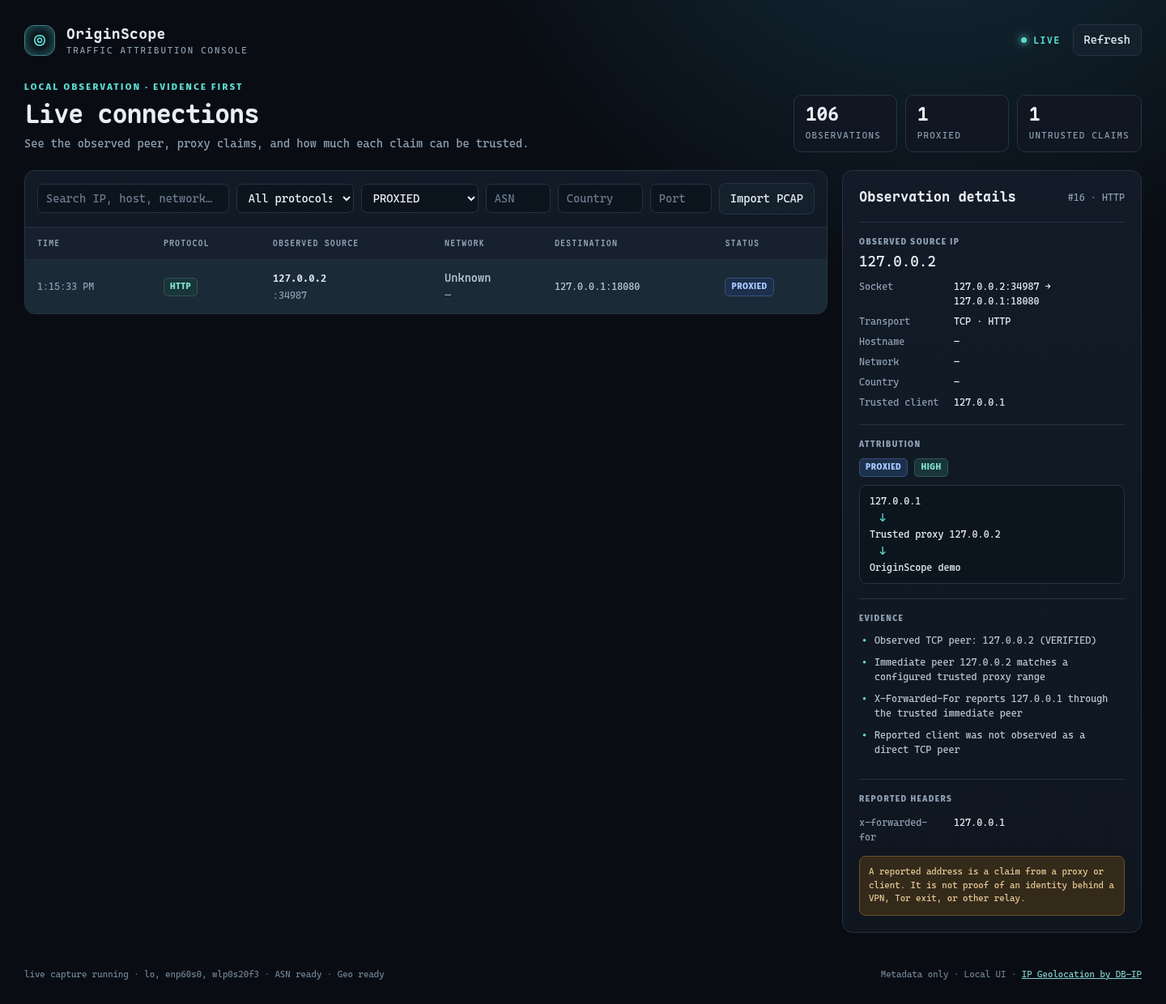
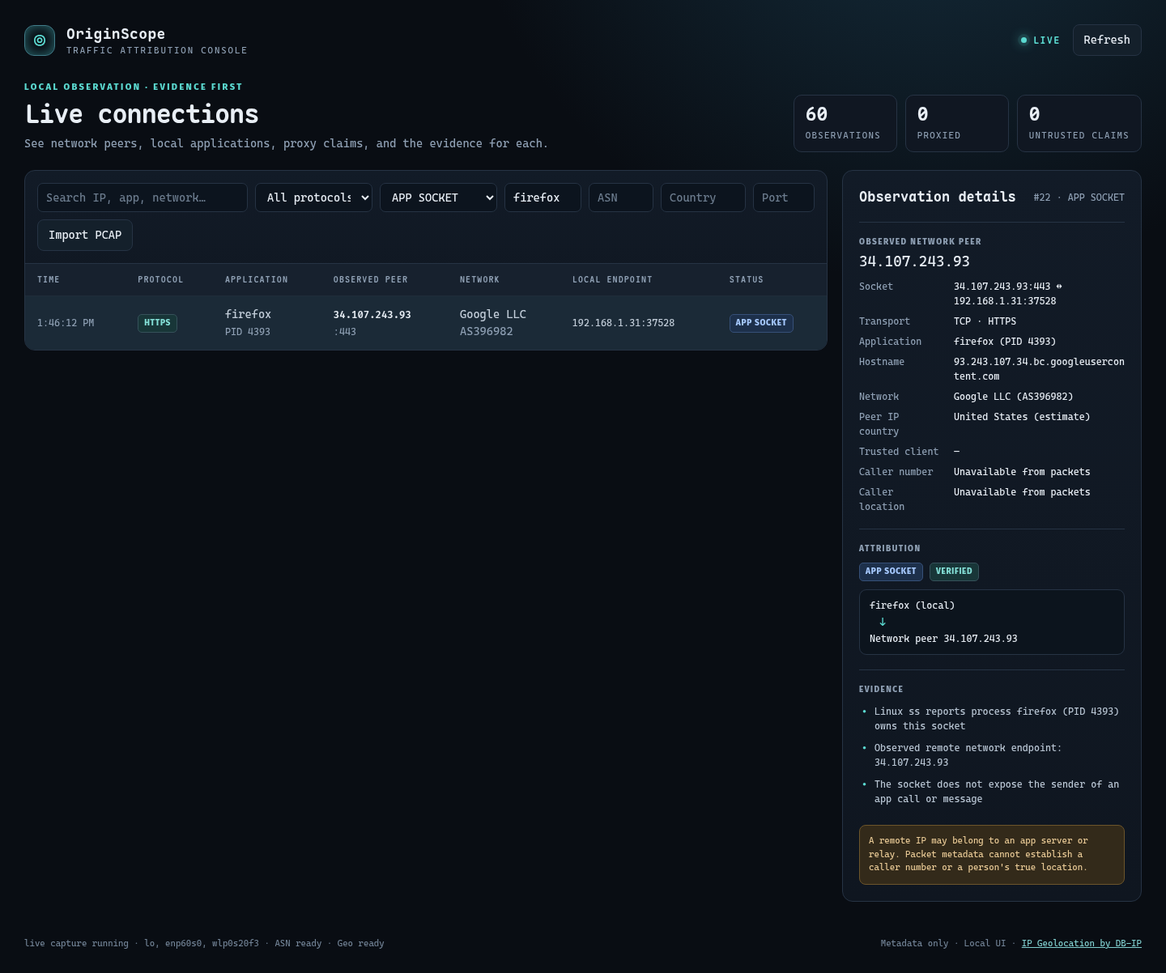
Show local application socket attribution

diff --git a/static/index.html b/static/index.html
@@ -11,19 +11,19 @@
 <body>
 <div class="shell">
   <header class="top"><div class="brand"><div class="mark">◎</div><div><strong>OriginScope</strong><small>Traffic attribution console</small></div></div><div class="topright"><div id="live" class="live"><span class="dot"></span><span>CONNECTING</span></div><button class="ghost" id="refresh">Refresh</button></div></header>
-  <section class="hero"><div><div class="eyebrow">Local observation · evidence first</div><h1>Live connections</h1><p>See the observed peer, proxy claims, and how much each claim can be trusted.</p></div><div class="stats"><div class="stat"><b id="count">0</b><span>Observations</span></div><div class="stat"><b id="proxied">0</b><span>Proxied</span></div><div class="stat"><b id="untrusted">0</b><span>Untrusted claims</span></div></div></section>
-  <div class="main"><section class="card"><div class="toolbar"><input id="search" class="search" placeholder="Search IP, host, network…" aria-label="Search observations"><select id="protocol" aria-label="Protocol"><option value="">All protocols</option><option>TCP</option><option>UDP</option><option>HTTP</option><option>HTTPS</option><option>DNS</option></select><select id="class" aria-label="Classification"><option value="">All sources</option><option>DIRECT</option><option>PROXIED</option><option>PROXY</option><option>UNTRUSTED HEADER</option><option>CDN / PROXY</option><option>TOR EXIT</option><option>UNKNOWN</option></select><input id="asn" style="width:80px" placeholder="ASN" aria-label="ASN"><input id="country" style="width:105px" placeholder="Country" aria-label="Country"><input id="port" style="width:76px" placeholder="Port" aria-label="Destination port"><button class="ghost import">Import PCAP<input id="pcap" type="file" accept=".pcap,.pcapng" aria-label="Import PCAP"></button></div><div class="tablewrap"><table><thead><tr><th>Time</th><th>Protocol</th><th>Observed source</th><th>Network</th><th>Destination</th><th>Status</th></tr></thead><tbody id="rows"></tbody></table><div id="empty" class="empty"><div style="font-size:29px;color:var(--cyan)">◎</div><strong>Waiting for traffic</strong>Try a request to the local demo server.</div></div></section><aside class="card detail" id="detail"><div class="detailhead"><h2>Observation details</h2><span class="id">SELECT A ROW</span></div><div class="empty">Choose a connection to inspect its evidence and topology.</div></aside></div>
+  <section class="hero"><div><div class="eyebrow">Local observation · evidence first</div><h1>Live connections</h1><p>See network peers, local applications, proxy claims, and the evidence for each.</p></div><div class="stats"><div class="stat"><b id="count">0</b><span>Observations</span></div><div class="stat"><b id="proxied">0</b><span>Proxied</span></div><div class="stat"><b id="untrusted">0</b><span>Untrusted claims</span></div></div></section>
+  <div class="main"><section class="card"><div class="toolbar"><input id="search" class="search" placeholder="Search IP, app, network…" aria-label="Search observations"><select id="protocol" aria-label="Protocol"><option value="">All protocols</option><option>TCP</option><option>UDP</option><option>HTTP</option><option>HTTPS</option><option>DNS</option></select><select id="class" aria-label="Classification"><option value="">All sources</option><option>APP SOCKET</option><option>DIRECT</option><option>PROXIED</option><option>PROXY</option><option>UNTRUSTED HEADER</option><option>CDN / PROXY</option><option>TOR EXIT</option><option>UNKNOWN</option></select><input id="application" style="width:95px" placeholder="App" aria-label="Application"><input id="asn" style="width:80px" placeholder="ASN" aria-label="ASN"><input id="country" style="width:105px" placeholder="Country" aria-label="Country"><input id="port" style="width:76px" placeholder="Port" aria-label="Destination port"><button class="ghost import">Import PCAP<input id="pcap" type="file" accept=".pcap,.pcapng" aria-label="Import PCAP"></button></div><div class="tablewrap"><table><thead><tr><th>Time</th><th>Protocol</th><th>Application</th><th>Observed peer</th><th>Network</th><th>Local endpoint</th><th>Status</th></tr></thead><tbody id="rows"></tbody></table><div id="empty" class="empty"><div style="font-size:29px;color:var(--cyan)">◎</div><strong>Waiting for traffic</strong>Try a request to the local demo server.</div></div></section><aside class="card detail" id="detail"><div class="detailhead"><h2>Observation details</h2><span class="id">SELECT A ROW</span></div><div class="empty">Choose a connection to inspect its evidence and topology.</div></aside></div>
   <div id="message"></div><footer class="footer"><span id="capture">Checking capture status…</span><span>Metadata only · Local UI · <a href="https://db-ip.com" target="_blank" rel="noopener">IP Geolocation by DB-IP</a></span></footer>
 </div>
 <script>
 const $=id=>document.getElementById(id), state={events:new Map(),selected:null};
 const escape=s=>String(s??'—').replace(/[&<>"']/g,c=>({'&':'&amp;','<':'&lt;','>':'&gt;','"':'&quot;',"'":'&#39;'}[c]));
-const badge=s=>`<span class="pill ${/UNTRUSTED|TOR/.test(s)?'red':/PROXIED|PROXY|CDN/.test(s)?'blue':s==='UNKNOWN'?'warn':''}">${escape(s)}</span>`;
-function filtered(){let q=$('search').value.trim().toLowerCase(), p=$('protocol').value, c=$('class').value, a=$('asn').value.trim(), co=$('country').value.trim().toLowerCase(), port=$('port').value.trim();return [...state.events.values()].filter(e=>(!p||e.transport===p||e.protocol===p)&&(!c||e.classification===c)&&(!a||String(e.asn??'').includes(a.replace(/^AS/i,'')))&&(!co||String(e.country??'').toLowerCase().includes(co))&&(!port||String(e.destination_port)===port)&&(!q||[e.source_ip,e.destination_ip,e.hostname,e.network,e.trusted_client,e.country,e.protocol].some(v=>String(v??'').toLowerCase().includes(q)))).sort((a,b)=>b.id-a.id)}
-function render(){let all=[...state.events.values()],events=filtered().slice(0,500);$('count').textContent=all.length;$('proxied').textContent=all.filter(e=>e.classification==='PROXIED').length;$('untrusted').textContent=all.filter(e=>e.classification==='UNTRUSTED HEADER').length;$('empty').style.display=events.length?'none':'block';$('rows').innerHTML=events.map(e=>`<tr data-id="${e.id}" class="${e.id===state.selected?'selected':''}"><td class="mono muted">${escape(new Date(e.timestamp).toLocaleTimeString())}</td><td>${badge(e.protocol||e.transport)}</td><td><span class="source mono">${escape(e.source_ip)}</span><br><span class="muted mono">:${escape(e.source_port)}</span></td><td>${escape(e.network||'Unknown')}<br><span class="muted">${e.asn?'AS'+escape(e.asn):escape(e.country||'—')}</span></td><td class="mono">${escape(e.destination_ip)}:${escape(e.destination_port)}</td><td>${badge(e.classification)}</td></tr>`).join('');document.querySelectorAll('#rows tr').forEach(tr=>tr.onclick=()=>{state.selected=Number(tr.dataset.id);render()});detail()}
-function detail(){let e=state.events.get(state.selected);if(!e)return;$('detail').innerHTML=`<div class="detailhead"><h2>Observation details</h2><span class="id">#${e.id} · ${escape(e.kind)}</span></div><div class="section"><div class="label">Observed source IP</div><div class="bigip">${escape(e.source_ip)}</div><div class="kv"><span>Socket</span><span class="mono">${escape(e.source_ip)}:${escape(e.source_port)} → ${escape(e.destination_ip)}:${escape(e.destination_port)}</span><span>Transport</span><span>${escape(e.transport)} · ${escape(e.protocol)}</span><span>Hostname</span><span>${escape(e.hostname)}</span><span>Network</span><span>${escape(e.network)} ${e.asn?'(AS'+escape(e.asn)+')':''}</span><span>Country</span><span>${escape(e.country)}</span><span>Trusted client</span><span>${escape(e.trusted_client)}</span></div></div><div class="section"><div class="label">Attribution</div><div style="display:flex;gap:8px;margin-top:9px">${badge(e.classification)} ${badge(e.confidence)}</div><div class="topology">${(e.topology||[]).map((hop,i)=>`<div class="hop">${escape(hop)}</div>${i<(e.topology.length-1)?'<div class="arrow">↓</div>':''}`).join('')}</div></div><div class="section"><div class="label">Evidence</div><ul class="evidence">${(e.evidence||[]).map(x=>`<li>${escape(x)}</li>`).join('')}</ul></div>${e.reported?.length?`<div class="section"><div class="label">Reported headers</div><div class="kv">${e.reported.map(x=>`<span>${escape(x.header)}</span><span class="mono">${escape(x.value)}</span>`).join('')}</div></div>`:''}<div class="note">A reported address is a claim from a proxy or client. It is not proof of an identity behind a VPN, Tor exit, or other relay.</div>`}
+const badge=s=>`<span class="pill ${/UNTRUSTED|TOR/.test(s)?'red':/PROXIED|PROXY|CDN|APP SOCKET/.test(s)?'blue':s==='UNKNOWN'?'warn':''}">${escape(s)}</span>`;
+function filtered(){let q=$('search').value.trim().toLowerCase(), p=$('protocol').value, c=$('class').value, app=$('application').value.trim().toLowerCase(), a=$('asn').value.trim(), co=$('country').value.trim().toLowerCase(), port=$('port').value.trim();return [...state.events.values()].filter(e=>(!p||e.transport===p||e.protocol===p)&&(!c||e.classification===c)&&(!app||String(e.application??'').toLowerCase().includes(app))&&(!a||String(e.asn??'').includes(a.replace(/^AS/i,'')))&&(!co||String(e.country??'').toLowerCase().includes(co))&&(!port||String(e.destination_port)===port)&&(!q||[e.application,e.source_ip,e.destination_ip,e.hostname,e.network,e.trusted_client,e.country,e.protocol].some(v=>String(v??'').toLowerCase().includes(q)))).sort((a,b)=>b.id-a.id)}
+function render(){let all=[...state.events.values()],events=filtered().slice(0,500);$('count').textContent=all.length;$('proxied').textContent=all.filter(e=>e.classification==='PROXIED').length;$('untrusted').textContent=all.filter(e=>e.classification==='UNTRUSTED HEADER').length;$('empty').style.display=events.length?'none':'block';$('rows').innerHTML=events.map(e=>`<tr data-id="${e.id}" class="${e.id===state.selected?'selected':''}"><td class="mono muted">${escape(new Date(e.timestamp).toLocaleTimeString())}</td><td>${badge(e.protocol||e.transport)}</td><td>${escape(e.application||'—')}${e.process_id?`<br><span class="muted mono">PID ${escape(e.process_id)}</span>`:''}</td><td><span class="source mono">${escape(e.source_ip)}</span><br><span class="muted mono">:${escape(e.source_port)}</span></td><td>${escape(e.network||'Unknown')}<br><span class="muted">${e.asn?'AS'+escape(e.asn):escape(e.country||'—')}</span></td><td class="mono">${escape(e.destination_ip)}:${escape(e.destination_port)}</td><td>${badge(e.classification)}</td></tr>`).join('');document.querySelectorAll('#rows tr').forEach(tr=>tr.onclick=()=>{state.selected=Number(tr.dataset.id);render()});detail()}
+function detail(){let e=state.events.get(state.selected);if(!e)return;$('detail').innerHTML=`<div class="detailhead"><h2>Observation details</h2><span class="id">#${e.id} · ${escape(e.kind)}</span></div><div class="section"><div class="label">Observed network peer</div><div class="bigip">${escape(e.source_ip)}</div><div class="kv"><span>Socket</span><span class="mono">${escape(e.source_ip)}:${escape(e.source_port)} ↔ ${escape(e.destination_ip)}:${escape(e.destination_port)}</span><span>Transport</span><span>${escape(e.transport)} · ${escape(e.protocol)}</span><span>Application</span><span>${escape(e.application)}${e.process_id?' (PID '+escape(e.process_id)+')':''}</span><span>Hostname</span><span>${escape(e.hostname)}</span><span>Network</span><span>${escape(e.network)} ${e.asn?'(AS'+escape(e.asn)+')':''}</span><span>Peer IP country</span><span>${escape(e.country)} (estimate)</span><span>Trusted client</span><span>${escape(e.trusted_client)}</span>${e.kind==='APP SOCKET'?'<span>Caller number</span><span>Unavailable from packets</span><span>Caller location</span><span>Unavailable from packets</span>':''}</div></div><div class="section"><div class="label">Attribution</div><div style="display:flex;gap:8px;margin-top:9px">${badge(e.classification)} ${badge(e.confidence)}</div><div class="topology">${(e.topology||[]).map((hop,i)=>`<div class="hop">${escape(hop)}</div>${i<(e.topology.length-1)?'<div class="arrow">↓</div>':''}`).join('')}</div></div><div class="section"><div class="label">Evidence</div><ul class="evidence">${(e.evidence||[]).map(x=>`<li>${escape(x)}</li>`).join('')}</ul></div>${e.reported?.length?`<div class="section"><div class="label">Reported headers</div><div class="kv">${e.reported.map(x=>`<span>${escape(x.header)}</span><span class="mono">${escape(x.value)}</span>`).join('')}</div></div>`:''}<div class="note">A remote IP may belong to an app server or relay. Packet metadata cannot establish a caller number or a person's true location.</div>`}
 async function load(){try{let [ev,st]=await Promise.all([fetch('/api/events').then(r=>r.json()),fetch('/api/status').then(r=>r.json())]);ev.forEach(e=>state.events.set(e.id,e));$('capture').textContent=`${st.capture} · ${st.interfaces.join(', ')} · ASN ${st.asn_db?'ready':'unavailable'} · Geo ${st.country_db?'ready':'unavailable'}`;render()}catch(err){$('message').textContent='Cannot reach OriginScope backend: '+err.message}}
 function stream(){let es=new EventSource('/api/stream');es.onopen=()=>{$('live').classList.remove('off');$('live').lastElementChild.textContent='LIVE'};es.onerror=()=>{$('live').classList.add('off');$('live').lastElementChild.textContent='RECONNECTING'};es.onmessage=m=>{try{let e=JSON.parse(m.data);state.events.set(e.id,e);render()}catch{}}}
-['search','protocol','class','asn','country','port'].forEach(id=>$(id).addEventListener('input',render));$('refresh').onclick=load;$('pcap').onchange=async e=>{let file=e.target.files[0];if(!file)return;$('message').textContent='Importing '+file.name+'…';try{let res=await fetch('/api/import',{method:'POST',headers:{'Content-Type':'application/octet-stream'},body:file}),data=await res.json();$('message').textContent=res.ok?`Imported ${data.imported} connection starts from ${file.name}`:data.error;await load()}catch(err){$('message').textContent=err.message}e.target.value=''};load();stream();setInterval(load,15000);
+['search','protocol','class','application','asn','country','port'].forEach(id=>$(id).addEventListener('input',render));$('refresh').onclick=load;$('pcap').onchange=async e=>{let file=e.target.files[0];if(!file)return;$('message').textContent='Importing '+file.name+'…';try{let res=await fetch('/api/import',{method:'POST',headers:{'Content-Type':'application/octet-stream'},body:file}),data=await res.json();$('message').textContent=res.ok?`Imported ${data.imported} connection starts from ${file.name}`:data.error;await load()}catch(err){$('message').textContent=err.message}e.target.value=''};load();stream();setInterval(load,15000);
 </script>
 </body></html>

diff --git a/app.py b/app.py
@@ -3,6 +3,7 @@
 
 import argparse
 import datetime as dt
+import grp
 import http.client
 import ipaddress
 import json
@@ -10,6 +11,8 @@ import os
 from pathlib import Path
 import queue
 import re
+import pwd
+import shlex
 import shutil
 import socket
 import subprocess
@@ -274,6 +277,18 @@ def tshark_command(interface=None, pcap=None):
     return cmd
 
 
+def capture_launch_command(cmd):
+    """Activate only dumpcap's group, preserving process visibility for ss."""
+    try:
+        group = grp.getgrnam("wireshark")
+        user = pwd.getpwuid(os.getuid()).pw_name
+        if group.gr_gid not in os.getgroups() and user in group.gr_mem and shutil.which("sg"):
+            return ["sg", "wireshark", "-c", shlex.join(cmd)]
+    except (KeyError, OSError):
+        pass
+    return cmd
+
+
 def capture_loop(app):
     if not app.config["capture"]["enabled"]:
         app.status["capture"] = "disabled by config"
@@ -284,7 +299,7 @@ def capture_loop(app):
         return
     cmd = tshark_command(app.config["interface"])
     try:
-        proc = subprocess.Popen(cmd, stdout=subprocess.PIPE, stderr=subprocess.PIPE, text=True, bufsize=1)
+        proc = subprocess.Popen(capture_launch_command(cmd), stdout=subprocess.PIPE, stderr=subprocess.PIPE, text=True, bufsize=1)
         app.capture_proc = proc
         app.status["capture"] = "starting tshark"
         for line in proc.stdout:
@@ -302,7 +317,56 @@ def capture_loop(app):
 
 def split_endpoint(value):
     host, _, port = value.rpartition(":")
-    return ip_value(host.strip("[]")), int(port) if port.isdigit() else None
+    return ip_value(host.strip("[]").split("%", 1)[0]), int(port) if port.isdigit() else None
+
+
+def parse_app_socket(row):
+    """Read one Linux ss -H -tunp row; missing process ownership stays unknown."""
+    cells = row.split()
+    if len(cells) < 7 or cells[0] not in ("tcp", "udp"):
+        return None
+    match = re.search(r'users:\(\("([^"]+)",pid=(\d+),fd=\d+\)', row)
+    if not match:
+        return None
+    local_ip, local_port = split_endpoint(cells[4])
+    remote_ip, remote_port = split_endpoint(cells[5])
+    if not all((local_ip, local_port, remote_ip, remote_port)):
+        return None
+    return {"transport": cells[0].upper(), "source_ip": remote_ip, "source_port": remote_port,
+            "destination_ip": local_ip, "destination_port": local_port,
+            "application": match.group(1), "process_id": int(match.group(2))}
+
+
+def app_socket_loop(app):
+    """Observe sockets owned by local processes; no message or caller inference."""
+    seen = set()
+    while True:
+        try:
+            output = subprocess.run(["ss", "-H", "-tunp"], capture_output=True, text=True, timeout=3, check=True).stdout
+            current = set()
+            for row in output.splitlines():
+                socket_info = parse_app_socket(row)
+                if not socket_info or socket_info["process_id"] == os.getpid():
+                    continue
+                key = (socket_info["transport"], socket_info["source_ip"], socket_info["source_port"],
+                       socket_info["destination_ip"], socket_info["destination_port"], socket_info["process_id"])
+                current.add(key)
+                if key in seen:
+                    continue
+                peer = socket_info["source_ip"]
+                process = socket_info["application"]
+                app.observe({"timestamp": dt.datetime.now(dt.timezone.utc).isoformat(), **socket_info,
+                             "protocol": PORT_NAMES.get(socket_info["source_port"], socket_info["transport"])},
+                            "APP SOCKET", {"classification": "APP SOCKET", "direction": "LOCAL PROCESS SOCKET",
+                                           "caller_number": None, "caller_location": None,
+                                           "topology": [f"{process} (local)", f"Network peer {peer}"],
+                                           "evidence": [f"Linux ss reports process {process} (PID {socket_info['process_id']}) owns this socket",
+                                                        f"Observed remote network endpoint: {peer}",
+                                                        "The socket does not expose the sender of an app call or message"]})
+            seen = current
+        except (OSError, subprocess.SubprocessError):
+            pass
+        time.sleep(1)
 
 
 def ss_loop(app):
@@ -502,6 +566,7 @@ def main():
                serve(DemoHandler, config["demo"]["host"], config["demo"]["port"]),
                serve(ProxyHandler, config["demo"]["host"], config["demo"]["proxy_port"])]
     threading.Thread(target=capture_loop, args=(app,), daemon=True).start()
+    threading.Thread(target=app_socket_loop, args=(app,), daemon=True).start()
     print(f"OriginScope UI: http://{config['ui']['host']}:{config['ui']['port']}", flush=True)
     print(f"Demo direct: http://{config['demo']['host']}:{config['demo']['port']}", flush=True)
     print(f"Demo proxy:  http://{config['demo']['host']}:{config['demo']['proxy_port']}", flush=True)

diff --git a/test_app.py b/test_app.py
@@ -1,7 +1,7 @@
 import ipaddress
 import unittest
 
-from app import parse_tshark, trust_analysis
+from app import parse_app_socket, parse_tshark, trust_analysis
 
 
 class AttributionTest(unittest.TestCase):
@@ -29,6 +29,13 @@ class AttributionTest(unittest.TestCase):
         values[-1] = "True"
         self.assertIsNone(parse_tshark("\t".join(values)))
         self.assertIsNone(parse_tshark("garbage"))
+
+    def test_app_socket_requires_local_process_evidence(self):
+        row = 'tcp ESTAB 0 0 192.168.1.31:43058 34.54.185.247:443 users:(("firefox",pid=4393,fd=151))'
+        parsed = parse_app_socket(row)
+        self.assertEqual((parsed["application"], parsed["source_ip"], parsed["process_id"]),
+                         ("firefox", "34.54.185.247", 4393))
+        self.assertIsNone(parse_app_socket(row.split(" users:")[0]))
 
 
 if __name__ == "__main__":

diff --git a/README.md b/README.md
@@ -11,12 +11,11 @@ Linux with Python 3.11+, `tshark`, and capture permission is recommended. Fedora
 ```sh
 sudo dnf install wireshark-cli python3
 sudo usermod -aG wireshark "$USER"
-# Log out and back in once, or use sg as shown below.
 ./scripts/setup.sh
 ./originscope
 ```
 
-On the first run after joining the group, use `sg wireshark -c './originscope'` if you have not logged out yet. The app itself runs as your user. Fedora's Wireshark package grants the narrow network capabilities to `dumpcap`, which is accessible only to the `wireshark` group. See [Wireshark's capture permission guide](https://wiki.wireshark.org/capturesetup/captureprivileges).
+The app itself runs in your normal user session. If new `wireshark` group membership has not reached that session yet, OriginScope activates the group only for its TShark capture child. Fedora's Wireshark package grants the narrow network capabilities to `dumpcap`, which is accessible only to the `wireshark` group. See [Wireshark's capture permission guide](https://wiki.wireshark.org/capturesetup/captureprivileges).
 
 Open **http://127.0.0.1:18765**. Run from the project directory. `./originscope` is the single startup command after installation. Stop it with Ctrl+C.
 
@@ -36,14 +35,21 @@ curl -H 'X-Forwarded-For: 203.0.113.9' http://127.0.0.1:18081/via-proxy
 
 The first is **DIRECT** with observed TCP peer `127.0.0.1`. The second is **UNTRUSTED HEADER**: `203.0.113.9` is displayed as a claim and never accepted as the client. The third is **PROXIED**: the built-in proxy removes supplied attribution headers, forwards the request from `127.0.0.2`, and reports its observed client as `127.0.0.1`. Only `127.0.0.2/32` is trusted by default. This separate loopback address keeps a direct `127.0.0.1` request from accidentally becoming trusted.
 
-The test server returns a JSON explanation and adds the event to the live UI. Click a row to see the observed source, reported headers, accepted client if any, topology, confidence, and evidence. Use the search, protocol, source classification, ASN, country, and destination port filters. Use **Import PCAP** to load a `.pcap` or `.pcapng` up to 50 MiB; imported connection starts use the same parser and enrichment pipeline.
+The test server returns a JSON explanation and adds the event to the live UI. Click a row to see the observed source, reported headers, accepted client if any, topology, confidence, and evidence. Use the search, protocol, application, source classification, ASN, country, and destination port filters. Use **Import PCAP** to load a `.pcap` or `.pcapng` up to 50 MiB; imported connection starts use the same parser and enrichment pipeline.
+
+## Application sockets and calls
+
+OriginScope also polls Linux `ss -tunp` to show **which local process owns an active TCP or connected UDP socket** when the OS exposes that owner. Filter by app name or select **APP SOCKET**. The detail panel shows the process name/PID, local socket, remote network endpoint, and an estimated country for that endpoint when the local database has a match. A web app usually appears as `firefox` or another browser process, not as its own tab. A phone's app identity is not available from packets observed on this PC; sockets owned by other users or hidden by OS permissions may also lack a process name.
+
+For WhatsApp or another messaging app, the remote address may be an app server, CDN, or call relay. Packet metadata does not contain a reliable caller phone number or true physical location. OriginScope explicitly shows those as **Unavailable from packets**. A number visible in an app's own UI would require that app to provide an authorized event or export; it cannot be inferred universally from network traffic. [WhatsApp documents end-to-end encryption](https://faq.whatsapp.com/820124435853543/) and [call relaying](https://faq.whatsapp.com/2635108359972899/), which are concrete reasons for this limit. The country shown is about the network endpoint's IP allocation, not the person who contacted you.
 
 ## Architecture and reused components
 
 ```text
 Network interface ── TShark / dumpcap ── field output ──┐
 PCAP / PCAPNG ──────── TShark ─────────── field output ──┼─ normalize + deduplicate
-HTTP demo ─────────── Python HTTP server ────────────────┘          │
+HTTP demo ─────────── Python HTTP server ────────────────┤          │
+Local app sockets ─── Linux ss -tunp ────────────────────┘          │
                                                                   ├─ trust rules + evidence
                                                                   ├─ local DNS / MMDB / lists
                                                                   └─ bounded memory → SSE → browser
@@ -72,7 +78,7 @@ The observed source is the peer visible at this host; it is always shown separat
 - Cloudflare publishes its [IPv4](https://www.cloudflare.com/ips-v4) and [IPv6](https://www.cloudflare.com/ips-v6) ranges. The [Tor Project bulk exit list](https://check.torproject.org/torbulkexitlist) is a snapshot and does not include every possible relay or destination-specific exit policy. Refresh these files regularly.
 - No packet bodies, cookies, credentials, TLS plaintext, or HTTP message bodies are stored by OriginScope. TShark inspects traffic transiently to report metadata. Imported PCAP files can contain sensitive payloads supplied by the operator; OriginScope holds the uploaded bytes in a temporary file only while TShark reads them, then deletes it. Do not import captures you are not authorized to analyze.
 - The UI and test servers bind to `127.0.0.1` by default. Changing that exposes unauthenticated local endpoints; add your own access control before binding publicly.
-- One event represents a TCP connection start or first UDP datagram in a 30-second flow window. This keeps the UI usable under high packet rates; it is not a packet counter. The in-memory history is capped at 10,000 observations and disappears on restart.
+- One capture event represents a TCP connection start or first UDP datagram in a 30-second flow window. App socket events represent active sockets discovered by one-second polling, which can miss short connections. These are not packet or call counters. The in-memory history is capped at 10,000 observations and disappears on restart.
 - Reverse DNS can be absent or misleading. The lookup worker has a two-second timeout and never blocks capture. Offline lists and databases keep ASN/country/Tor/CDN enrichment available without an API request for each observed IP.
 - PROXY protocol v1/v2 ingestion, STUN/TURN/ICE analysis, TLS interception, VPN detection, and relay deanonymization are outside this MVP. The UI reports **UNKNOWN** when evidence is insufficient.
 
@@ -83,7 +89,7 @@ The observed source is the peer visible at this host; it is always shown separat
 curl -fsS http://127.0.0.1:18765/api/status
 ```
 
-The included checks cover untrusted headers, trusted proxy hop selection, Cloudflare header gating, and malformed TShark records. For manual verification, run the three demo requests above, check the live table and detail panel, and import a PCAP captured on an interface you may monitor. A screenshot of the tested proxy detail view is included above.
+The included checks cover untrusted headers, trusted proxy hop selection, Cloudflare header gating, malformed TShark records, and app socket parsing. For manual verification, run the three demo requests above, check the live table and detail panel, filter to **APP SOCKET**, and import a PCAP captured on an interface you may monitor. The screenshot above shows a tested application socket and the explicit caller-identity limits.
 
 ## Project files
 
